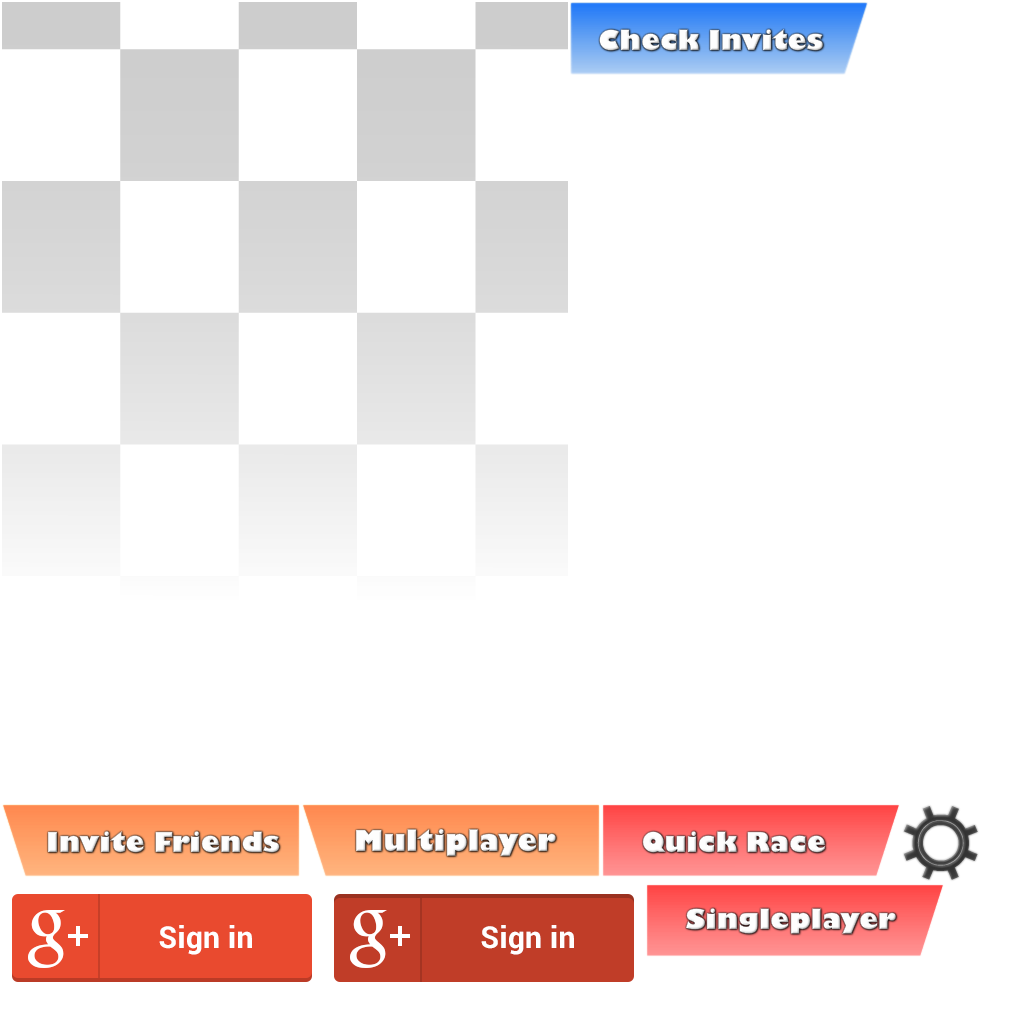
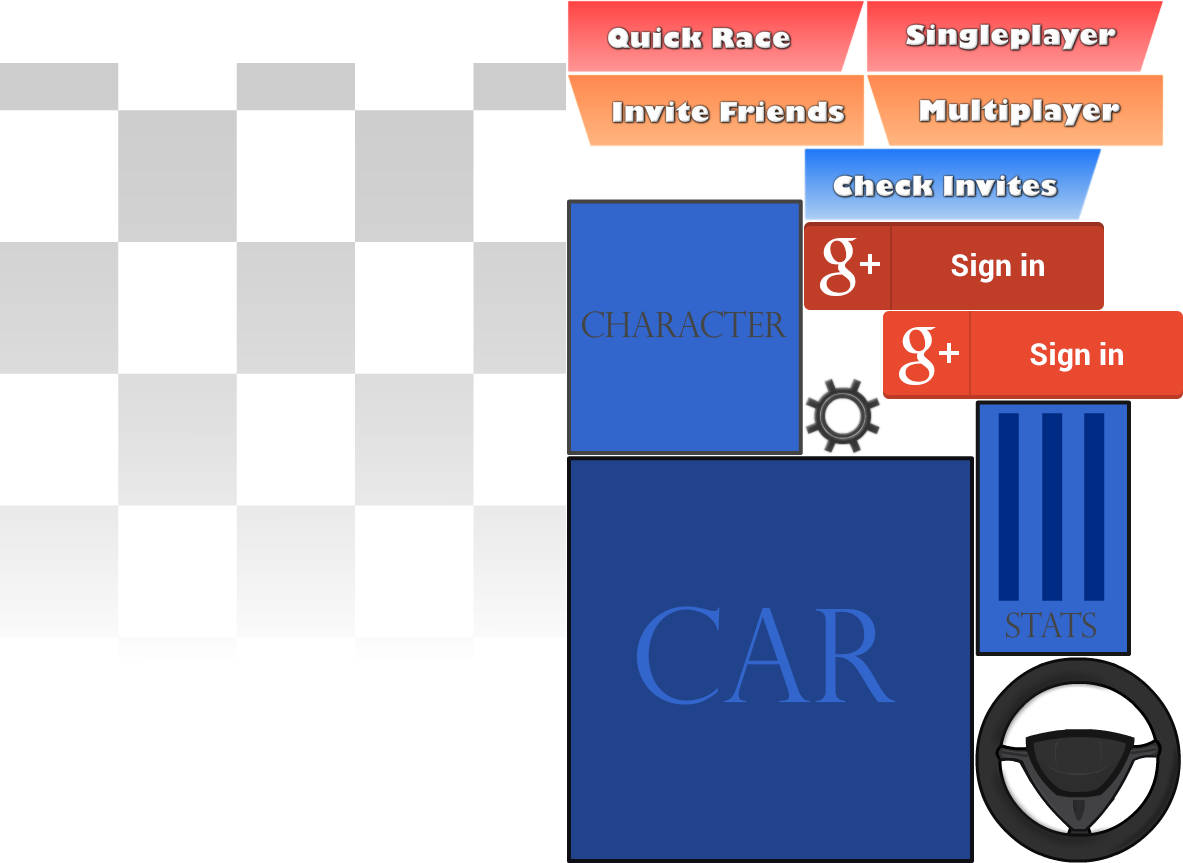
Add steering to assets

diff --git a/core/src/com/letsrace/game/LetsRace.java b/core/src/com/letsrace/game/LetsRace.java
@@ -19,11 +19,10 @@ import com.letsrace.game.network.FRGameServer;
 import com.letsrace.game.network.FRGoogleServices;
 import com.letsrace.game.screen.FRCarSelectScreen;
 import com.letsrace.game.screen.FRGameScreen;
-import com.letsrace.game.screen.FRMultiplayerMenuScreen;
-import com.letsrace.game.screen.FRWaitScreen;
 import com.letsrace.game.screen.FRMenuScreen;
+import com.letsrace.game.screen.FRMultiplayerMenuScreen;
 import com.letsrace.game.screen.FRSplashScreen;
-import com.letsrace.game.unused.FROldSplashScreen;
+import com.letsrace.game.screen.FRWaitScreen;
 
 public class LetsRace extends Game {
 	public GameState gameState;
@@ -102,10 +101,6 @@ public class LetsRace extends Game {
 		case SELECT_CAR:
 			gameState = GameState.SELECT_CAR;
 			setScreen(new FRCarSelectScreen(this));
-			break;
-		case SPLASH_SIGN_IN:
-			gameState = GameState.SPLASH_SIGN_IN;
-			setScreen(new FROldSplashScreen(this));
 			break;
 		case SPLASH:
 			gameState = GameState.SPLASH;

diff --git a/core/src/com/letsrace/game/screen/FRCarSelectScreen.java b/core/src/com/letsrace/game/screen/FRCarSelectScreen.java
@@ -19,7 +19,7 @@ public class FRCarSelectScreen extends ScreenAdapter {
 		gameRef = game;
 		gameRef.stage.clear();
 		Gdx.input.setInputProcessor(gameRef.stage);
-		Image image = new Image(gameRef.skin.getDrawable("wait-screen-back"));
+		Image image = new Image(gameRef.skin.getDrawable("background"));
 		image.setWidth(Gdx.graphics.getWidth());
 		image.setHeight(Gdx.graphics.getHeight());
 		Image name = new Image(gameRef.skin.getDrawable("car-selection-name"));
